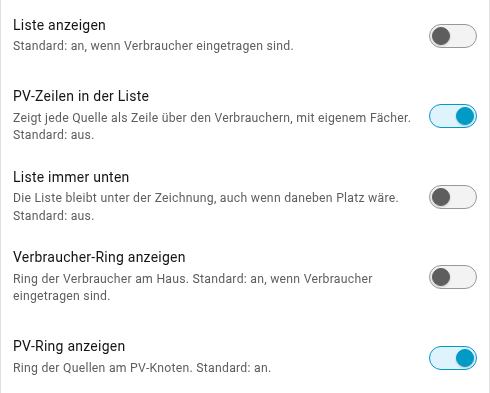
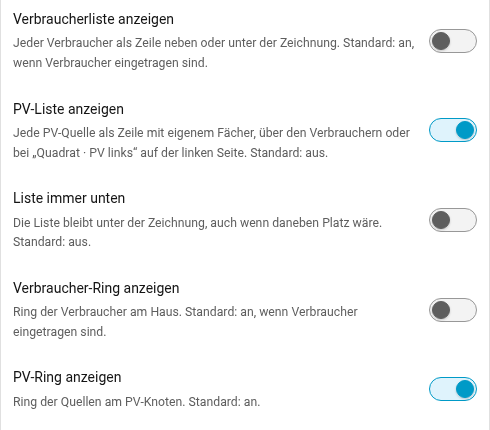
Name the list switches like the ring switches
The editor now says "Show consumer list" and "Show PV list"; the PV help no
longer says "in the list", as square_left puts the PV rows on the other side,
and "always below" turns plural once both lists are shown.

diff --git a/test/editor-list-labels.test.ts b/test/editor-list-labels.test.ts
@@ -1,0 +1,93 @@
+// @vitest-environment happy-dom
+/**
+ * The list switches under "Darstellung" (REQ L-14, 05.11.2026): named like the
+ * rings, the PV list not "in the list" (square_left puts it on the other
+ * side), and "always below" in the plural once both lists are shown.
+ */
+import { describe, expect, it } from "vitest";
+import "../src/editor";
+import type { HomeAssistant, RawConfig } from "../src/types";
+
+type Editor = HTMLElement & {
+  setConfig: (c: RawConfig) => void;
+  hass: HomeAssistant;
+  updateComplete: Promise<unknown>;
+  _label: (i: { name: string }) => string;
+  _helper: (i: { name: string }) => string;
+};
+
+const hassIn = (language: string) =>
+  ({
+    states: {},
+    locale: { language, number_format: "language" as const },
+    language,
+    callWS: async () => ({}) as never,
+  }) as HomeAssistant;
+
+const SOURCES = [
+  { entity: "sensor.roof", name: "Dach" },
+  { entity: "sensor.balcony", name: "Balkon" },
+];
+
+async function mount(config: Record<string, unknown>, language = "de"): Promise<Editor> {
+  const el = document.createElement("enerlens-card-editor") as Editor;
+  el.hass = hassIn(language);
+  el.setConfig({
+    type: "custom:enerlens-card",
+    entities: { solar: "sensor.s", grid: "sensor.g", house: "sensor.h" },
+    ...config,
+  } as RawConfig);
+  document.body.appendChild(el);
+  await el.updateComplete;
+  return el;
+}
+
+const CONSUMERS = [{ entity: "sensor.c1", name: "Herd" }];
+const BOTH = {
+  entities: { solar: SOURCES, grid: "sensor.g", house: "sensor.h" },
+  consumers: CONSUMERS,
+  list: { solar: true },
+};
+
+describe("the list switches (REQ L-14)", () => {
+  it("names them like the rings, the PV list not 'in the list'", async () => {
+    const el = await mount({ consumers: CONSUMERS });
+    expect(el._label({ name: "list_enabled" })).toBe("Verbraucherliste anzeigen");
+    expect(el._label({ name: "list_solar" })).toBe("PV-Liste anzeigen");
+    expect(el._helper({ name: "list_solar" })).toContain("Quadrat · PV links");
+    expect(el._helper({ name: "list_solar" })).not.toContain("in der Liste");
+    expect(el._helper({ name: "list_enabled" })).toContain("Standard: an, wenn Verbraucher");
+  });
+
+  it("one list: always below in the singular", async () => {
+    for (const config of [
+      { consumers: CONSUMERS },
+      // Sources, but their list off.
+      { ...BOTH, list: { solar: false } },
+      // Both switched on, the consumer list off.
+      { ...BOTH, list: { solar: true, enabled: false } },
+      // One source has no PV rows (solar.ts), however the switch stands.
+      { ...BOTH, entities: { solar: [SOURCES[0]], grid: "sensor.g", house: "sensor.h" } },
+    ]) {
+      const el = await mount(config);
+      expect(el._label({ name: "list_always_below" })).toBe("Liste immer unten");
+      expect(el._helper({ name: "list_always_below" })).toMatch(/^Die Liste bleibt/);
+    }
+  });
+
+  it("both lists shown: always below in the plural", async () => {
+    const el = await mount(BOTH);
+    expect(el._label({ name: "list_always_below" })).toBe("Listen immer unten");
+    expect(el._helper({ name: "list_always_below" })).toMatch(/^Die Listen bleiben/);
+  });
+
+  it("the same in English", async () => {
+    const one = await mount({ consumers: CONSUMERS }, "en");
+    expect(one._label({ name: "list_enabled" })).toBe("Show consumer list");
+    expect(one._label({ name: "list_solar" })).toBe("Show PV list");
+    expect(one._label({ name: "list_always_below" })).toBe("List always below");
+    const both = await mount(BOTH, "en");
+    expect(both._label({ name: "list_always_below" })).toBe("Lists always below");
+    expect(both._helper({ name: "list_always_below" })).toMatch(/the lists under/);
+  });
+});

diff --git a/src/editor.ts b/src/editor.ts
@@ -2488,8 +2488,25 @@ class EnerLensCardEditor extends LitElement {
     if (name.endsWith("_invert")) return localize("editor.invert", this.hass);
     if (name.startsWith("icon_")) return localize(`editor.${name.slice(5)}`, this.hass);
     if (QUANTITIES.includes(name as Quantity)) return localize("editor.entity", this.hass);
+    if (name === "list_always_below" && this._bothLists())
+      return localize("editor.list_always_below_both", this.hass);
     return localize(`editor.${name}`, this.hass);
   };
+
+  /** Consumer list and PV list both shown: "always below" moves both (L-14). */
+  private _bothLists(): boolean {
+    const shown = this._shownFlat() as FlatRecord;
+    // PV rows only from two sources on, as the card draws them (solar.ts).
+    const rows = (Array.isArray(shown.solar_sources) ? shown.solar_sources : []).filter(
+      (row) => isRecord(row) && nonEmpty(row.entity),
+    );
+    return (
+      shown.solar_source === "sources" &&
+      rows.length > 1 &&
+      shown.list_solar === true &&
+      shown.list_enabled === true
+    );
+  }
 
   /** Helper text under a field. Empty for the self-explanatory ones - localize
    *  returns the key itself when there is no entry. */
@@ -2503,6 +2520,8 @@ class EnerLensCardEditor extends LitElement {
     }
     let key = `editor_help.${item.name.replace(/^node_(?:solar|grid|house|battery)_/, "node_")}`;
     if (item.name.startsWith("color_")) key = "editor_help.color";
+    if (item.name === "list_always_below" && this._bothLists())
+      key = "editor_help.list_always_below_both";
     if (item.name.endsWith("_source")) {
       const flat = (this._flat ?? {}) as FlatRecord;
       if (flat[item.name] !== "derived") return "";

diff --git a/asciidoc/demo/demo.js b/asciidoc/demo/demo.js
@@ -713,7 +713,7 @@ const WORDS = {
   de: {
     layout: "Anordnung", cross: "Kreuz", square_right: "Quadrat · PV rechts", square_left: "Quadrat · PV links",
     triangle: "Dreieck · Haus Mitte", triangle_battery: "Dreieck · Batterie Mitte", lines: "Linienform", curved: "Geschwungen", straight: "Gerade",
-    pvrows: "PV-Zeilen in der Liste", list: "Verbraucher-Liste", on: "An", off: "Aus", time: "Tageszeit (erfundener Tag)",
+    pvrows: "PV-Liste", list: "Verbraucherliste", on: "An", off: "Aus", time: "Tageszeit (erfundener Tag)",
     yaml: "So sieht das in YAML aus:", none: "# alles Standard - nichts einzutragen",
     inside: "Zusatzwert im Kreis", above: "über dem Icon", below: "unter dem Wert",
     label: "Zusatzwert beim Text", plain: "ohne Vorsatz", prefix: "mit Vorsatz",
@@ -731,7 +731,7 @@ const WORDS = {
   en: {
     layout: "Arrangement", cross: "Cross", square_right: "Square · solar right", square_left: "Square · solar left",
     triangle: "Triangle · house centre", triangle_battery: "Triangle · battery centre", lines: "Line form", curved: "Curved", straight: "Straight",
-    pvrows: "PV rows in the list", list: "Consumer list", on: "On", off: "Off", time: "Time of day (invented day)",
+    pvrows: "PV list", list: "Consumer list", on: "On", off: "Off", time: "Time of day (invented day)",
     yaml: "This is the YAML:", none: "# all defaults - nothing to set",
     inside: "Extra value in the circle", above: "above the icon", below: "below the value",
     label: "Extra value with the label", plain: "without prefix", prefix: "with prefix",

diff --git a/CHANGELOG.md b/CHANGELOG.md
@@ -6,6 +6,11 @@ and this project adheres to [Semantic Versioning](https://semver.org/).
 
 ## [Unreleased]
 
+### Changed
+- **Editor: clearer list switches.** *Show consumer list* and *Show PV list*
+  name what they show, like the two ring switches; *Lists always below* is
+  plural once both lists are shown.
+
 ### Fixed
 - **Detail window: no second build-up while open.** The state of charge (and
   the min/max band behind a power line) no longer sweeps in again from the
